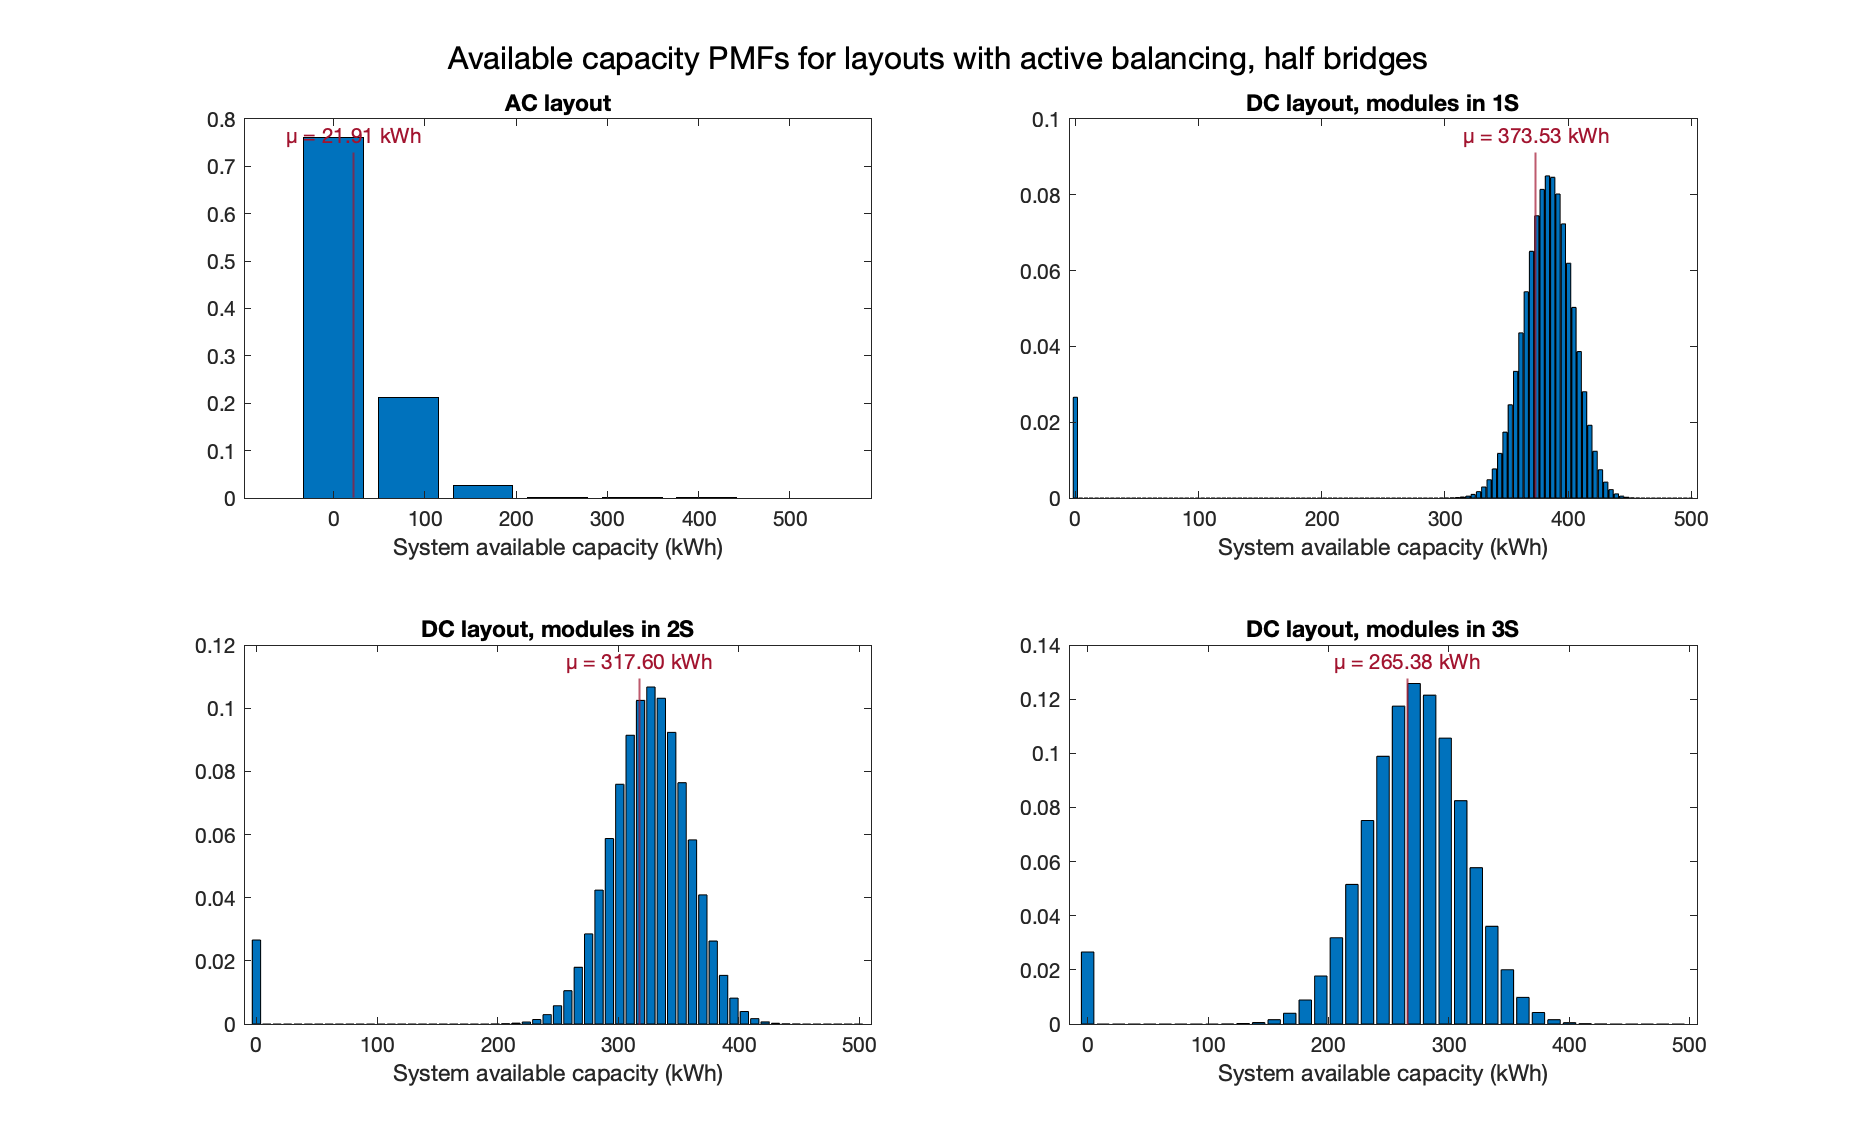
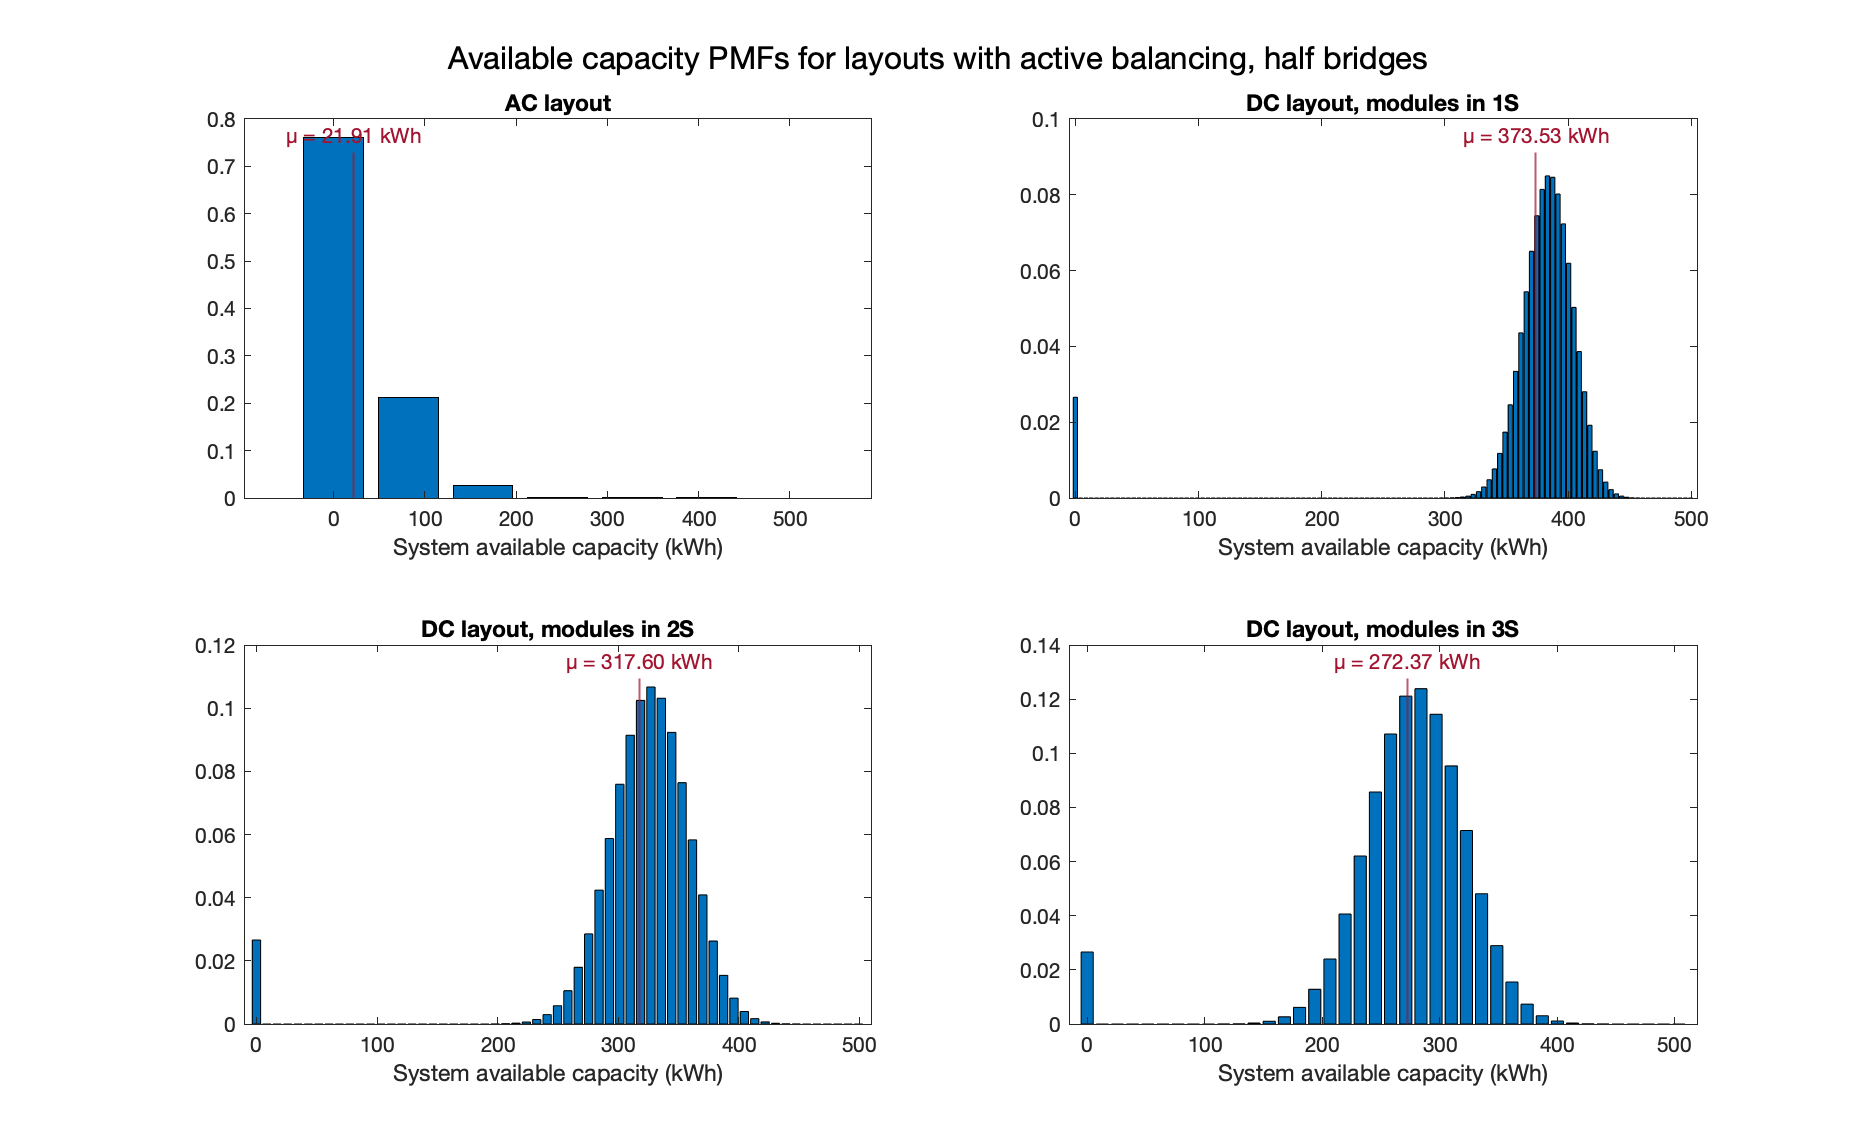
re-ran with new values

Changed region(s): [[0.6805, 0.5803, 0.8352, 0.9162], [0.8661, 0.8857, 0.928, 0.9162], [0.6187, 0.8857, 0.6496, 0.9162]]

diff --git a/reliability_calcs_v2.m b/reliability_calcs_v2.m
@@ -71,7 +71,7 @@ Pinv = [1-Rinv Rinv];
 %% 1. First we will consider 4 layouts, all with passive balancing
 % 1.a) AC layout
 [XacPB, PacPB] = get_ac_sys_dist(kWhModule, kWhPack_AC, nBlockSer, nModSer_AC, nModPar_AC, Rpb, Rinv);
-pause
+
 % 1.b) DC layout with 1 module per DC-DC converter
 nModSer_DC1 = 1;
 %nModPar_DC1 = 116;
@@ -199,7 +199,7 @@ expectedOutputAB_pct = round(expectedOutputAB ./ kWhPack .* 100, 1);
 
 title2 = "Table 2. Layout comparisons for active balancing circuits with half bridges";
 %title3 = "Table 3. Layout comparisons for active balancing circuits with half-bridges";
-Tab = table(expectedOutputAB./1000, expectedOutputAB_pct, acceptabilityAB);
+Tab = table(expectedOutputAB, expectedOutputAB_pct, acceptabilityAB);
 Tab.Properties.RowNames = [sprintf("AC layout, %0.1f kWh", kWhPack(1)); ...
     sprintf("DC layout, 1S, %0.1f kWh", kWhPack(2)); ...
     sprintf("DC layout, 2S, %0.1f kWh", kWhPack(3)); ...

diff --git a/get_dc_layout.m b/get_dc_layout.m
@@ -1,6 +1,7 @@
 function [nModPar, kWhPack_actual] = get_dc_layout(kWhModule, nModSer, kWhPack_desired)
 
-nModPar = floor(kWhPack_desired/(kWhModule*nModSer));
+    nModPar = round(kWhPack_desired/(kWhModule*nModSer)); 
+    
 kWhPack_actual = kWhModule * nModSer * nModPar;
 
 end
